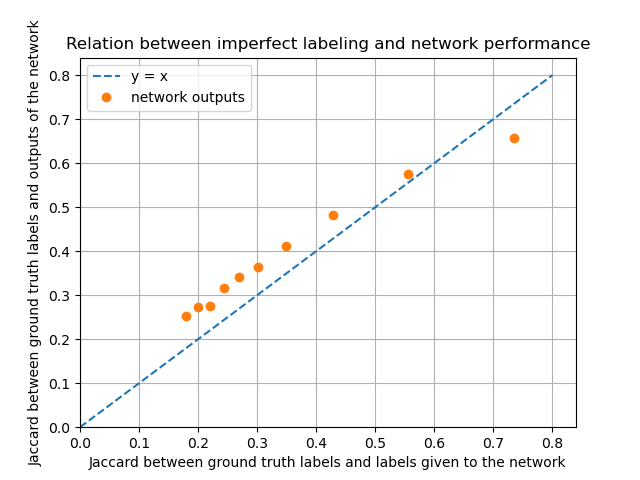
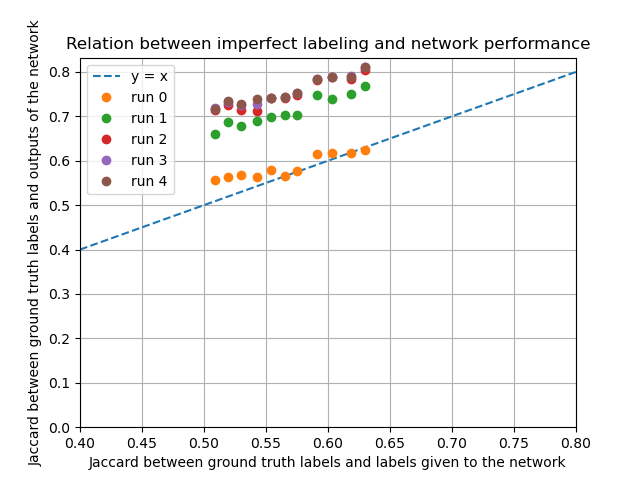
adding graph_deplace.png

diff --git a/graph.py b/graph.py
@@ -47,7 +47,39 @@ if train_type == 'oubli':
 	data_2 = np.array(data_2)
 	data_3 = np.array(data_3)
 
-elif train_type == 'taille' or train_type == 'mean' or train_type == 'deplace':
+elif train_type == 'deplace':
+	for line in jaccard_log:
+		line = line.split(' ')
+		if(line[2] == 'test'):
+			jaccard_data.append([(float(line[-4])-1.0)*100/5, int(line[-2]), float(line[-1])])
+	data = np.array(jaccard_data)
+
+	data_0 = []
+	data_1 = []
+	data_2 = []
+	data_3 = []
+	data_4 = []
+	
+	for line in data:
+		line[0] = distortion_data[round(line[0])]
+		if line[1] == 0:
+			data_0.append([line[0],line[2]])
+		if line[1] == 1:
+			data_1.append([line[0],line[2]])
+		if line[1] == 2:
+			data_2.append([line[0],line[2]])
+		if line[1] == 3:
+			data_3.append([line[0],line[2]])
+		if line[1] == 4:
+			data_4.append([line[0],line[2]])
+
+	data_0 = np.array(data_0)
+	data_1 = np.array(data_1)
+	data_2 = np.array(data_2)
+	data_3 = np.array(data_3)
+	data_4 = np.array(data_4)
+
+elif train_type == 'taille' or train_type == 'mean':
 	for line in jaccard_log:
 		jaccard_data.append(float(line.split(' ')[-1]))
 	data = np.array([distortion_data,jaccard_data])
@@ -59,20 +91,30 @@ if train_type == 'oubli':
 	plt.plot(data_1[:,0],data_1[:,1],'o',label='run 1')
 	plt.plot(data_2[:,0],data_2[:,1],'o',label='run 2')
 	plt.plot(data_3[:,0],data_3[:,1],'o',label='run 3')
+	plt.xlim(0)
+	plt.ylim(0)
+elif train_type == 'deplace':
+	plt.plot([0.4,0.8],[0.4,0.8],'--', label='y = x')
+	plt.plot(data_0[:,0],data_0[:,1],'o',label='run 0')
+	plt.plot(data_1[:,0],data_1[:,1],'o',label='run 1')
+	plt.plot(data_2[:,0],data_2[:,1],'o',label='run 2')
+	plt.plot(data_3[:,0],data_3[:,1],'o',label='run 3')
+	plt.plot(data_4[:,0],data_4[:,1],'o',label='run 4')
+	plt.xlim(0.4,0.8)
+	plt.ylim(0)
 elif train_type == 'taille':
 	plt.plot([0,0.6],[0,0.6],'--', label='y = x')
 	plt.plot(data[0,:],data[1,:],'o',label='network outputs')
+	plt.xlim(0)
+	plt.ylim(0)
 elif train_type == 'mean':
 	plt.plot([0,0.6],[0,0.6],'--', label='y = x')
 	plt.plot(data[0,:],data[1,:],'o',label='network outputs')
-elif train_type == 'deplace':
-	plt.plot([0,0.8],[0,0.8],'--', label='y = x')
-	plt.plot(data[0,:],data[1,:],'o',label='network outputs')
+	plt.xlim(0)
+	plt.ylim(0)
 plt.xlabel('Jaccard between ground truth labels and labels given to the network')
 plt.ylabel('Jaccard between ground truth labels and outputs of the network')
 plt.title('Relation between imperfect labeling and network performance')
-plt.xlim(0)
-plt.ylim(0)
 plt.grid()
 plt.legend()
 plt.savefig(os.path.join('images','graph_'+train_type+'.png'))
